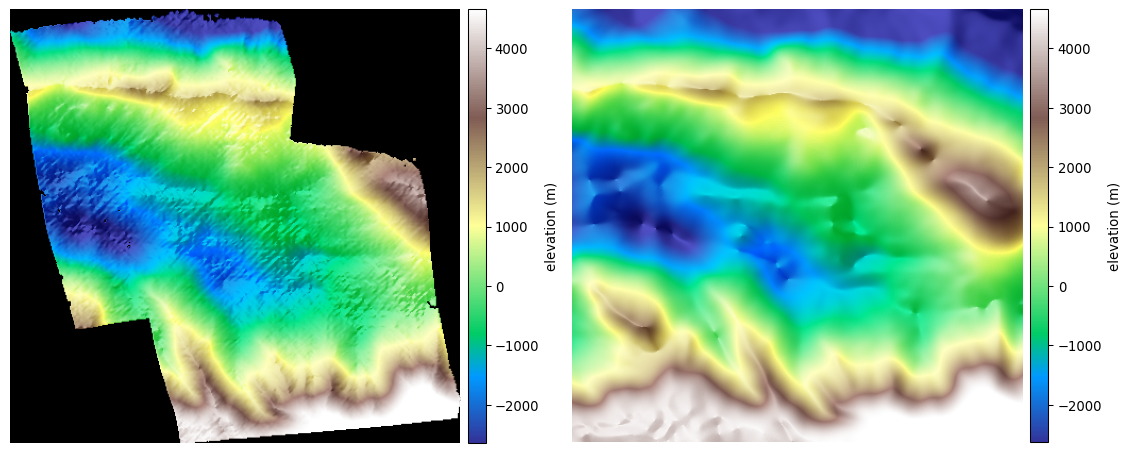
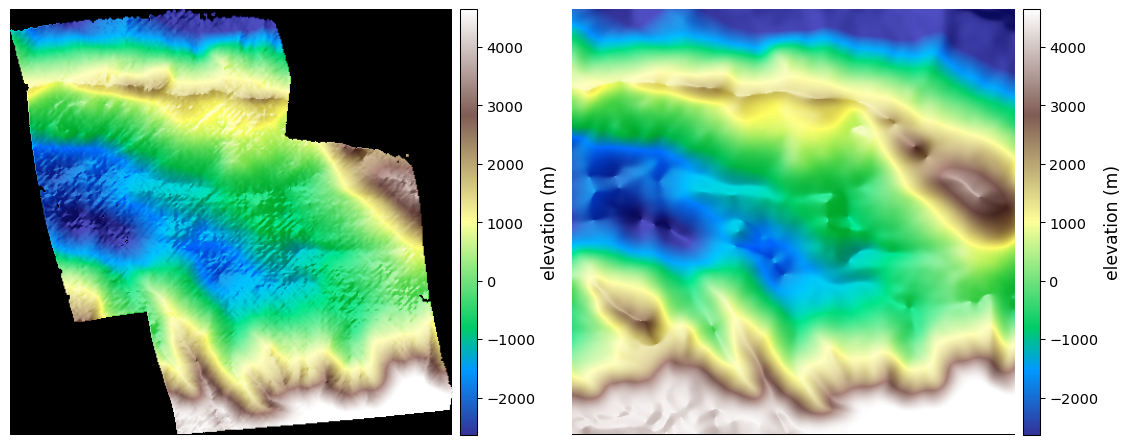
viking: add per-pair triangulation error figure, match colorbar fonts
Add a 2x2 figure of the triangulation error for the four pairs, clamped
to 0 to 50 m, and use a consistent colorbar font on it and the DEM
comparison figure.

diff --git a/docs/examples/viking.rst b/docs/examples/viking.rst
@@ -93,16 +93,17 @@ of pixels above and below the band, including saturated speckle::
       f912a14.mask.cub -o f912a14_clamp.tif
 
 These bounds may differ for other images, and can likely be relaxed somewhat,
-since the heavy lifting is done by the median filter step below.
+since the heavy lifting is done by the median filter step below. 
 
-Third, remove the salt-and-pepper speckle with a median filter. The speckle is
-what most misleads ``asp_mgm`` correlation: it looks minor when zoomed out, but it
-trips up the dense matcher up close. A 3 by 3 median replaces a pixel by the median
-of its window when at least 6 of the 9 pixels are valid. This removes the speckle
-and fills the smallest holes, while leaving clean terrain nearly unchanged::
+Third, remove the salt-and-pepper speckle with a median filter. A 3 by 3 median
+replaces a pixel by the median of its window when at least 6 of the 9 pixels are
+valid. This removes the speckle and fills the smallest holes, while leaving
+clean terrain nearly unchanged::
 
     image_calc --median-filter '3 6'       \
       f912a14_clamp.tif -o f912a14_med.tif
+
+This option requires the 2026-07-28 ASP build or later (:numref:`release`).
 
 Fourth, fill the remaining no-data holes with ``gdal_fillnodata`` (shipped with
 ASP, :numref:`gdal_tools`). The median cannot fill the larger reseau boxes, which
@@ -113,10 +114,8 @@ across the image border::
 
     gdal_fillnodata -md 6 f912a14_med.tif f912a14.tif
 
-``image_calc`` handles ISIS special pixels correctly (they are masked using the
-cube's valid range), so it can read the cube directly. Repeat all steps for each
-frame. This preprocessing is the single biggest lever on this data: it roughly
-halves the final DEM error against the reference.
+Repeat all steps for each frame. This preprocessing is the single biggest lever
+on this data: it roughly halves the final DEM error against the reference.
 
 .. figure:: ../images/viking_frames.png
    :name: viking_frames
@@ -156,18 +155,18 @@ and ``/vsicurl`` (the global file is large)::
 Camera models
 ~~~~~~~~~~~~~
 
-The Viking VIS lens distortion is defined in ISIS by a reseau distortion map
-(the ISIS ``ReseauDistortionMap``). It is not an analytic polynomial. The
-distortion is measured empirically, from the offsets of the reseau fiducial marks
-relative to their nominal grid positions, and interpolated between them. Being a
-grid of measured points, it does not extrapolate well beyond the outermost reseau
-marks, near the image frame, which results in mapprojection artifacts at the edges.
+The Viking VIS lens distortion is defined in ISIS by a reseau distortion map.
+The distortion is measured empirically, from the offsets of the reseau fiducial
+marks relative to their nominal grid positions, and interpolated between them.
+Being a grid of measured points, it does not extrapolate well beyond the
+outermost reseau marks, near the image frame, which results in mapprojection
+artifacts at the edges.
 
 To handle this, build a CSM (:numref:`csm`) Frame camera (:numref:`csm_frame`)
 that fits the ``transverse`` lens distortion model (:numref:`csm_frame_def`),
 while keeping the rest of the camera parameters.
 
-This requires the 2026-07-27 ASP build or later (:numref:`release`)::
+This requires the 2026-07-28 ASP build or later (:numref:`release`)::
 
     cam_gen f912a14.cub              \
       --input-camera f912a14.cub     \
@@ -187,19 +186,17 @@ cameras of the same VIS camera type (A or B), as expected.
 Bundle adjustment
 ~~~~~~~~~~~~~~~~~
 
-Match on the mapprojected frames, not the raw ones. Mapproject each frame onto the
-reference DEM with its camera, and pass these images to ``bundle_adjust`` via
-``--mapprojected-data-list``. Matching on the raw frames leaves the cross-orbit
-pairs poorly tied and the network decouples. On the mapprojected frames all pairs
-match well, and a single alignment then suffices.
+Interest point matching is done on the mapprojected images (:numref:`mapip`),
+for robustness. Use the AKAZE interest point method (``--ip-detect-method 3``,
+:numref:`stereodefault-pprc`), which finds stable points on this low-contrast
+data.
 
-Use the AKAZE interest point method (``--ip-detect-method 3``,
-:numref:`stereodefault-pprc`), which finds stable points on this low-contrast data.
-
-Build the image, camera, and mapprojected lists in the same loop, so they stay in
-the *same order* (do not use ``ls``, which sorts the names)::
+Set a shared local projection::
 
     proj='+proj=stere +lat_0=-7.1 +lon_0=-70.4 +R=3396190 +units=m'
+
+Build the image, camera, and mapprojected lists in the *same order*::
+
     rm -f images.txt cameras.txt mapproj.txt
     for id in f912a14 f912a57 f913a15 f913a56; do
       mapproject --t_srs "$proj" --tr 50 \
@@ -262,10 +259,8 @@ This is repeated for each pair with a good convergence angle and good overlap.
 
 Combine the DEMs with ``dem_mosaic`` (:numref:`dem_mosaic`) into
 ``dem_mosaic_pass1.tif``. Align this mosaic to the reference with ``pc_align``
-(:numref:`pc_align`). Because the Viking DEM is a small dense patch inside the
-large coarse reference, the Viking DEM is the *source* and the reference is the
-first argument. The raw pointing can be off by more than 10 km, so use a large
-``--max-displacement``::
+(:numref:`pc_align`). The raw pointing can be off by more than 10 km, so use a
+large ``--max-displacement``::
 
     pc_align                   \
       --max-displacement 25000 \
@@ -273,6 +268,10 @@ first argument. The raw pointing can be off by more than 10 km, so use a large
       ref.tif                  \
       dem_mosaic_pass1.tif     \
       -o al/run
+
+Such a large max displacement can make it hard to filter outliers properly. It works
+is case, as the DEM we want to align, so ``dem_mosaic_pass1.tif`` is small in extent
+compared to the reference DEM.
 
 Apply the resulting transform to the cameras, so they move into the reference
 coordinate system. This does not re-optimize anything; it only applies the rigid
@@ -329,7 +328,7 @@ of bundle adjustment accuracy and quality of the lens distortion fit.
 
 Because the bundle solve coupled all pairs, the second-pass DEMs are mutually
 registered. Combine them directly with ``dem_mosaic`` (:numref:`dem_mosaic`) into
-``mosaic.tif``, with no per-pair alignment::
+``mosaic.tif``::
 
     dem_mosaic st2_912/run-DEM.tif st2_913/run-DEM.tif \
       st2_1557/run-DEM.tif st2_5614/run-DEM.tif -o mosaic.tif
@@ -349,16 +348,14 @@ were then colorized and hillshaded, such as with ``colormap`` (:numref:`colormap
    :name: viking_cmap_compare
    :alt: Viking mosaic versus HRSC, colorized hillshade
 
-   Colorized hillshade on a common elevation range and identical grid. Left: the
-   Viking four-pair DEM mosaic. Right: the HRSC/MOLA reference regridded to the
-   same grid. The elevations agree (same color pattern). The Viking DEM
-   shows more detail but also has some numerical artifacts. The elevation
-   range was -2633 to 4658 meters.
+   Left: the Viking four-pair DEM mosaic. Right: the HRSC/MOLA reference. The
+   elevations agree (same color pattern). The Viking DEM shows more detail but
+   also has some numerical artifacts. The elevation range was -2633 to 4658
+   meters.
 
 Orthoimage mosaic
 ~~~~~~~~~~~~~~~~~
 
-The aligned cameras and the DEM mosaic also yield an orthoimage mosaic.
 Mapproject each frame onto the DEM with its aligned camera at the estimated
 ground sample distance grid::
 
@@ -374,7 +371,7 @@ ground sample distance grid::
 
 The vidicon frames differ in overall brightness, which can show as a seam in the
 mosaic. Optionally, scale a frame by a constant factor with ``image_calc``
-(:numref:`image_calc`) so its median matches the others.
+(:numref:`image_calc`) so its median pixel value matches the others.
 
 Combine the ortho images with ``dem_mosaic --first`` (:numref:`dem_mosaic`),
 which keeps the first image at each pixel rather than blending, so a frame
@@ -388,3 +385,17 @@ overlap shows a seam rather than a smear::
    :alt: Viking orthoimage mosaic
 
    Orthoimage mosaic of the four frames draped on the Viking DEM (exposure-matched).
+
+Triangulation error
+~~~~~~~~~~~~~~~~~~~
+
+Inspect the triangulation error for each DEM (:numref:`point2dem_ortho_err`).
+When bundle adjustment fails, this error is larger than the ground sample
+distance, which here is about 50 m. A strong pattern around the frame corners
+would indicate unmodeled lens distortion, which is not seen here.
+
+.. figure:: ../images/viking_trierr.png
+   :name: viking_trierr
+   :alt: Viking triangulation error for the four stereo pairs
+
+   Triangulation error for the four stereo pairs, clamped to 0 to 50 m.
